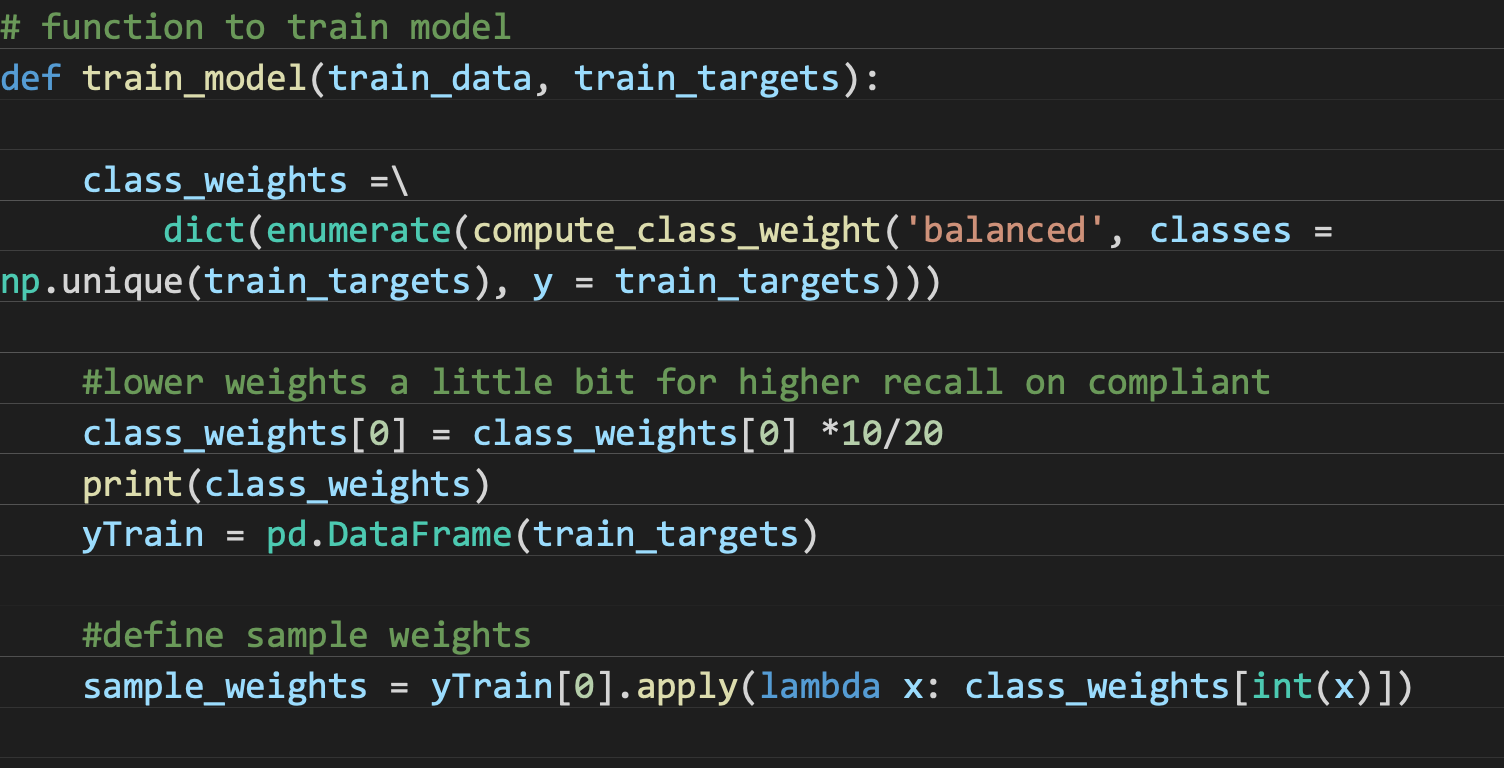
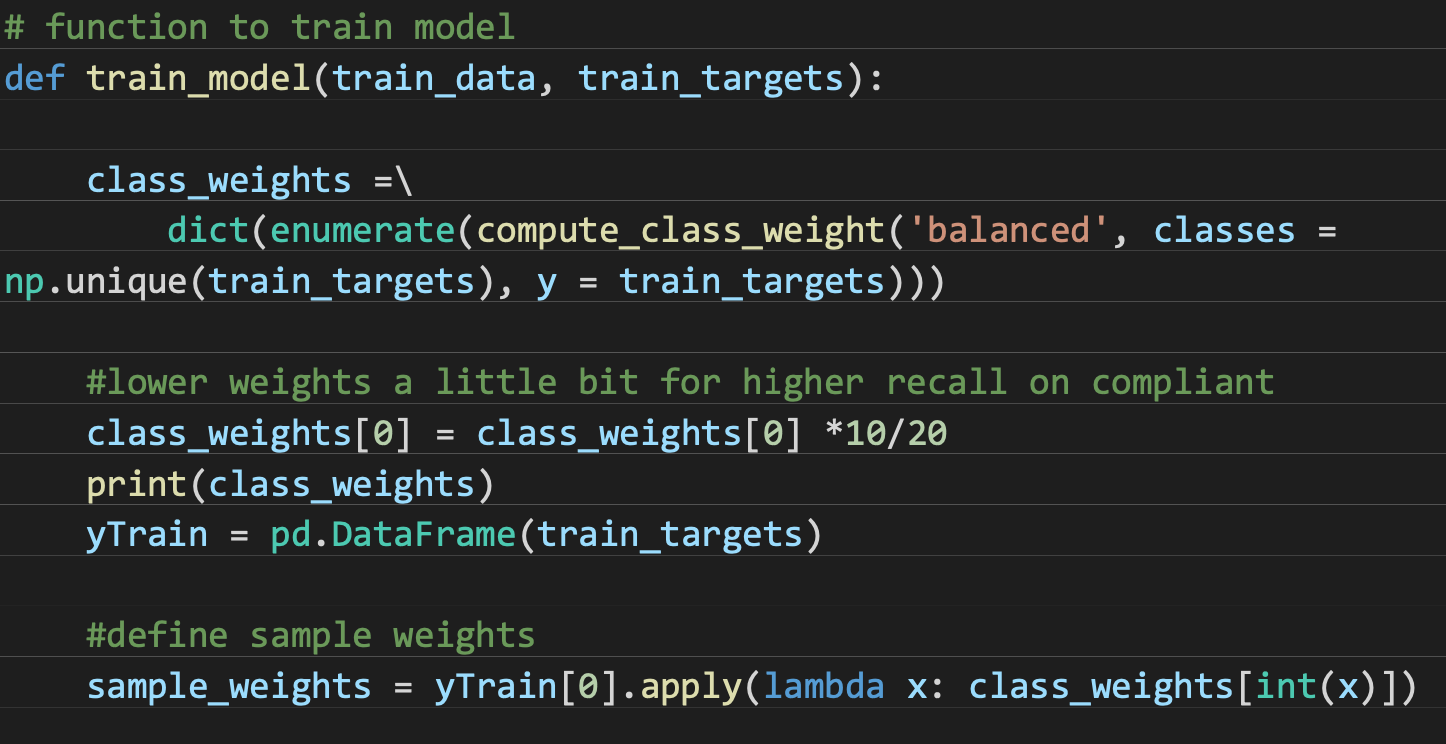
add pic

diff --git a/_posts/2024-03-01-food-scores.md b/_posts/2024-03-01-food-scores.md
@@ -41,7 +41,7 @@ The FSA technology was ultimately shelved because the Agency decided that there 
 
 **How it works**
 
-<img src="/images/code_ext.jpg" alt="drawing" width="400"/>
+<img src="/images/code_ext.jpg" alt="drawing" width="600"/>
 
 *Some of the code that trained the model from existing data and generated predictions for new data*
 
